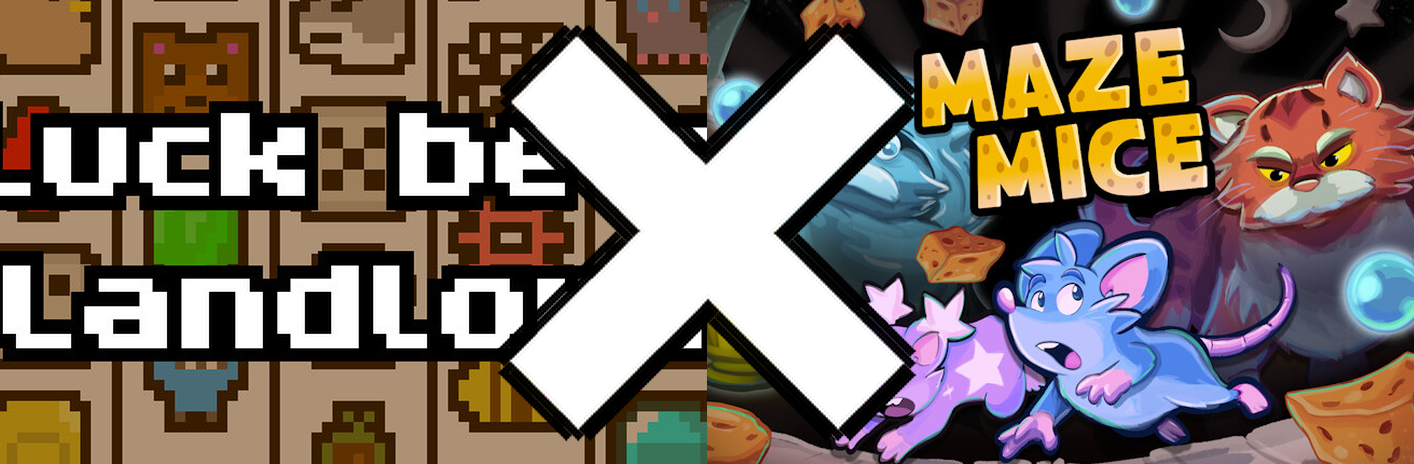
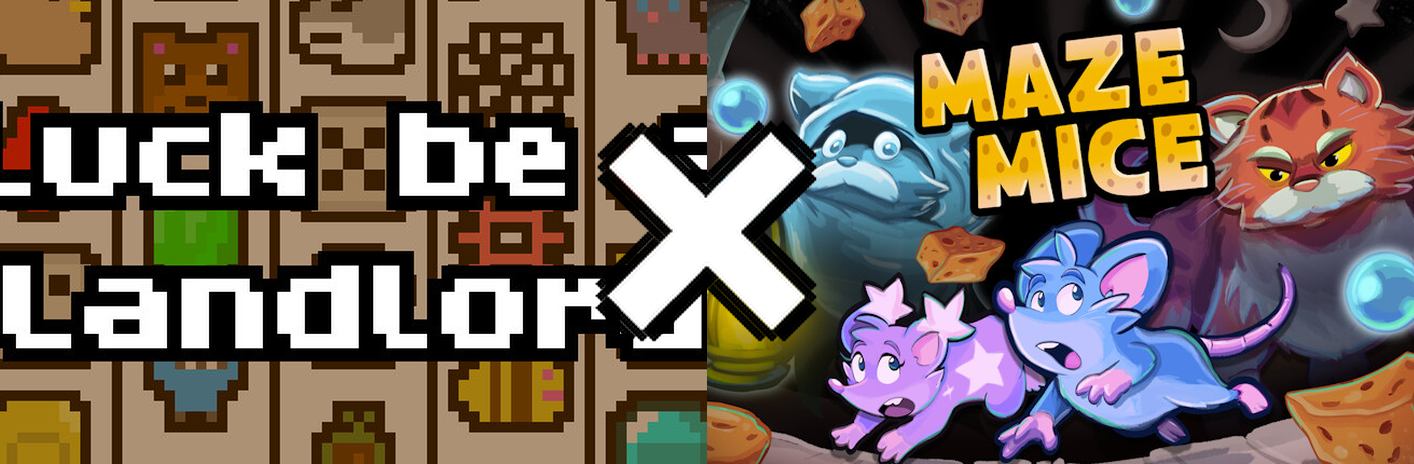
work

Changed region(s): [[0.3423, 0.0302, 0.6535, 0.9655]]

diff --git a/gen.py b/gen.py
@@ -72,7 +72,7 @@ def create_package_header(folder):
     out_w, out_h = 1414, 464
     game_w = out_w // 2
 
-    cross = make_outlined_cross(cross, out_h)
+    cross = make_outlined_cross(cross, out_h // 2)
     g1 = scale_and_crop(game1, game_w, out_h)
     g2 = scale_and_crop(game2, game_w, out_h)
 
@@ -80,7 +80,8 @@ def create_package_header(folder):
     result.paste(g1, (0, 0))
     result.paste(g2, (game_w, 0))
     cross_x = (out_w - cross.width) // 2
-    result.paste(cross, (cross_x, 0), cross)
+    cross_y = (out_h - cross.height) // 2
+    result.paste(cross, (cross_x, cross_y), cross)
     result.save(f"{folder}/package_header.png")
 
 
